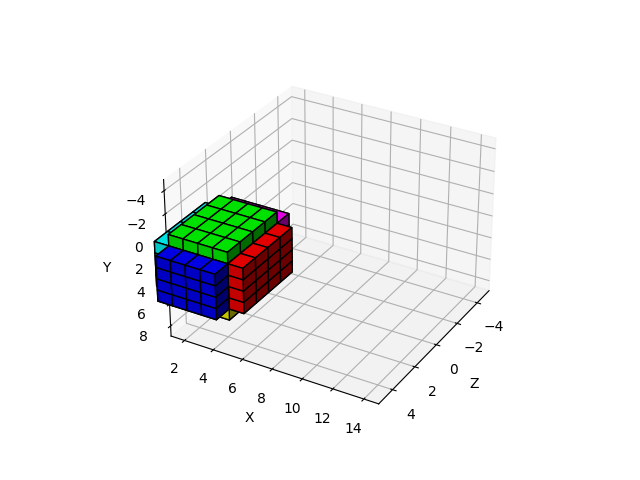
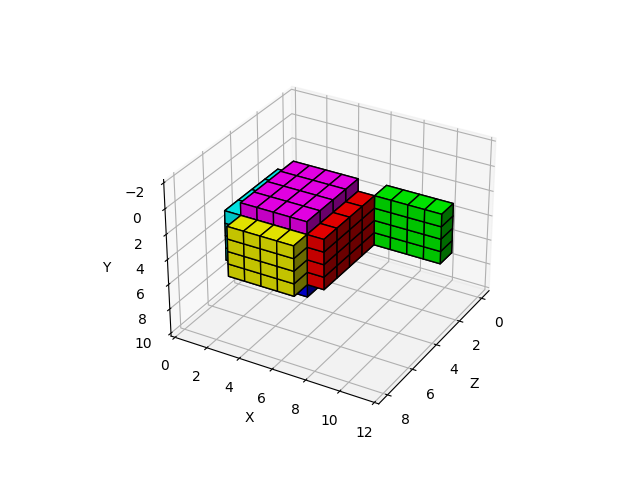
wip

diff --git a/day22/plot3.py b/day22/plot3.py
@@ -28,9 +28,9 @@ ymin = min(ys)
 zmin = min(zs)
 
 for i in range(0, len(xs)):
-    xs[i] -= xmin
-    ys[i] -= ymin
-    zs[i] -= zmin
+    xs[i] -= xmin - 1
+    ys[i] -= ymin - 1
+    zs[i] -= zmin - 1
 
 xmax = max(xs)
 ymax = max(ys)
@@ -39,7 +39,7 @@ zmax = max(zs)
 
 #x, y, z = np.indices((xmax + 1, ymax + 1, zmax + 1))
 
-n_voxels = np.zeros((xmax + 1, ymax + 1, zmax + 1), dtype=bool)
+n_voxels = np.zeros((xmax + 2, ymax + 2, zmax + 2), dtype=bool)
 
 for i in range(0, len(xs)):
     n_voxels[xs[i], ys[i], zs[i]] = True
@@ -62,9 +62,9 @@ ax.set_xlabel('X')
 ax.set_ylabel('Y')
 ax.set_zlabel('Z')
 
-ax.set_xlim(xmin, xmax)
-ax.set_ylim(ymin, ymax)
-ax.set_zlim(zmin, zmax)
+ax.set_xlim(0, xmax + 2)
+ax.set_ylim(0, ymax + 2)
+ax.set_zlim(0, zmax + 2)
 
 ax.view_init(30, 30, 0, vertical_axis='y')
 
